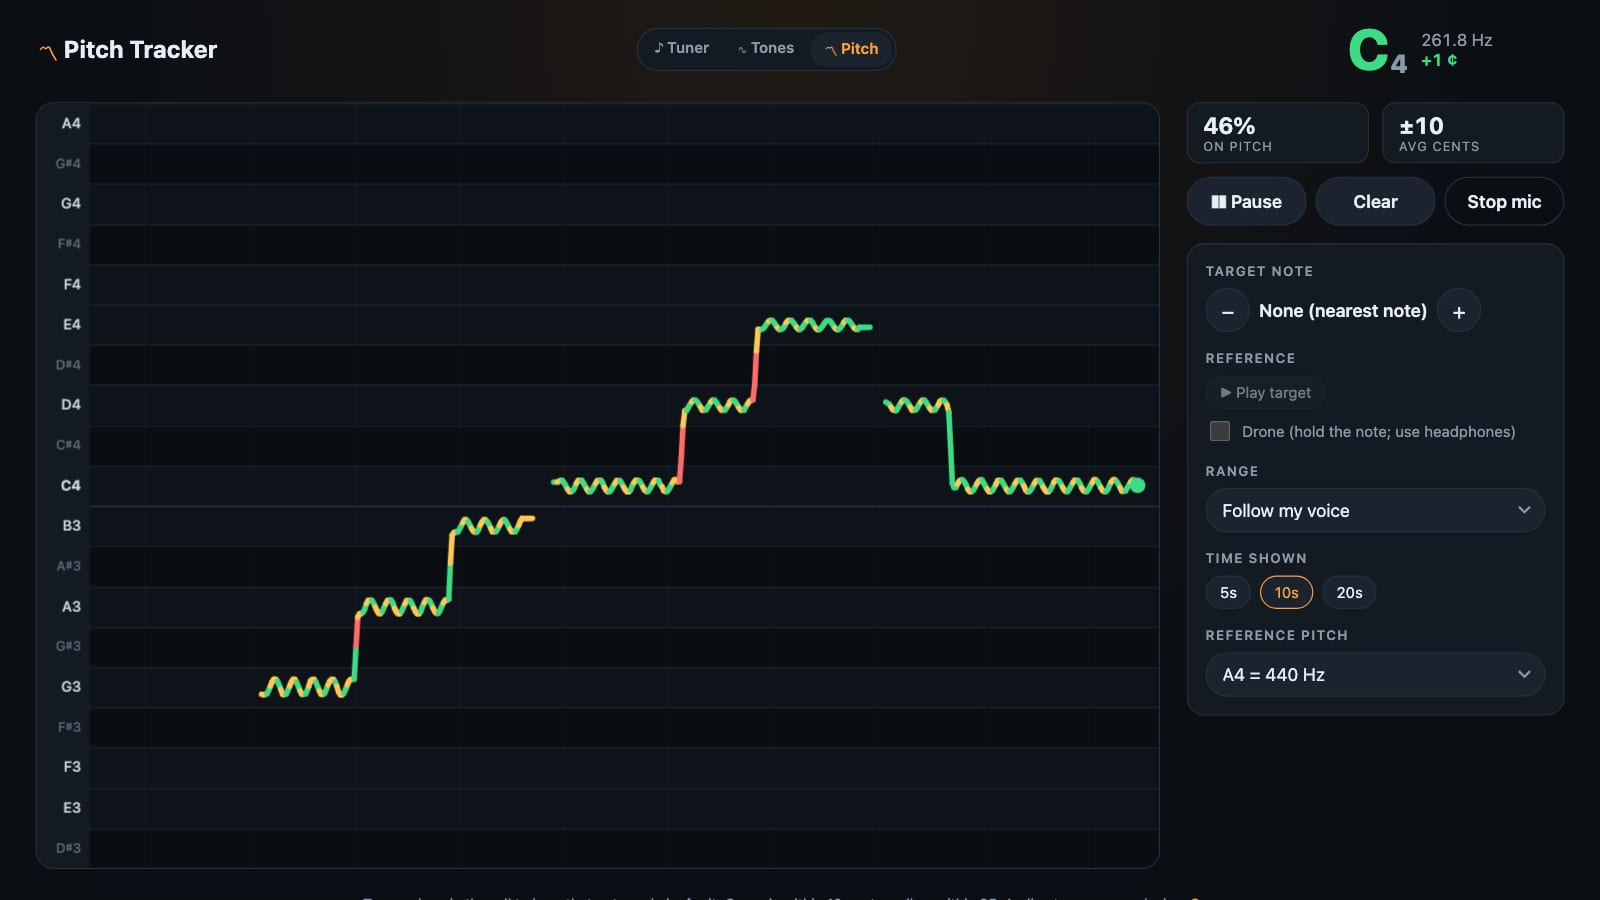
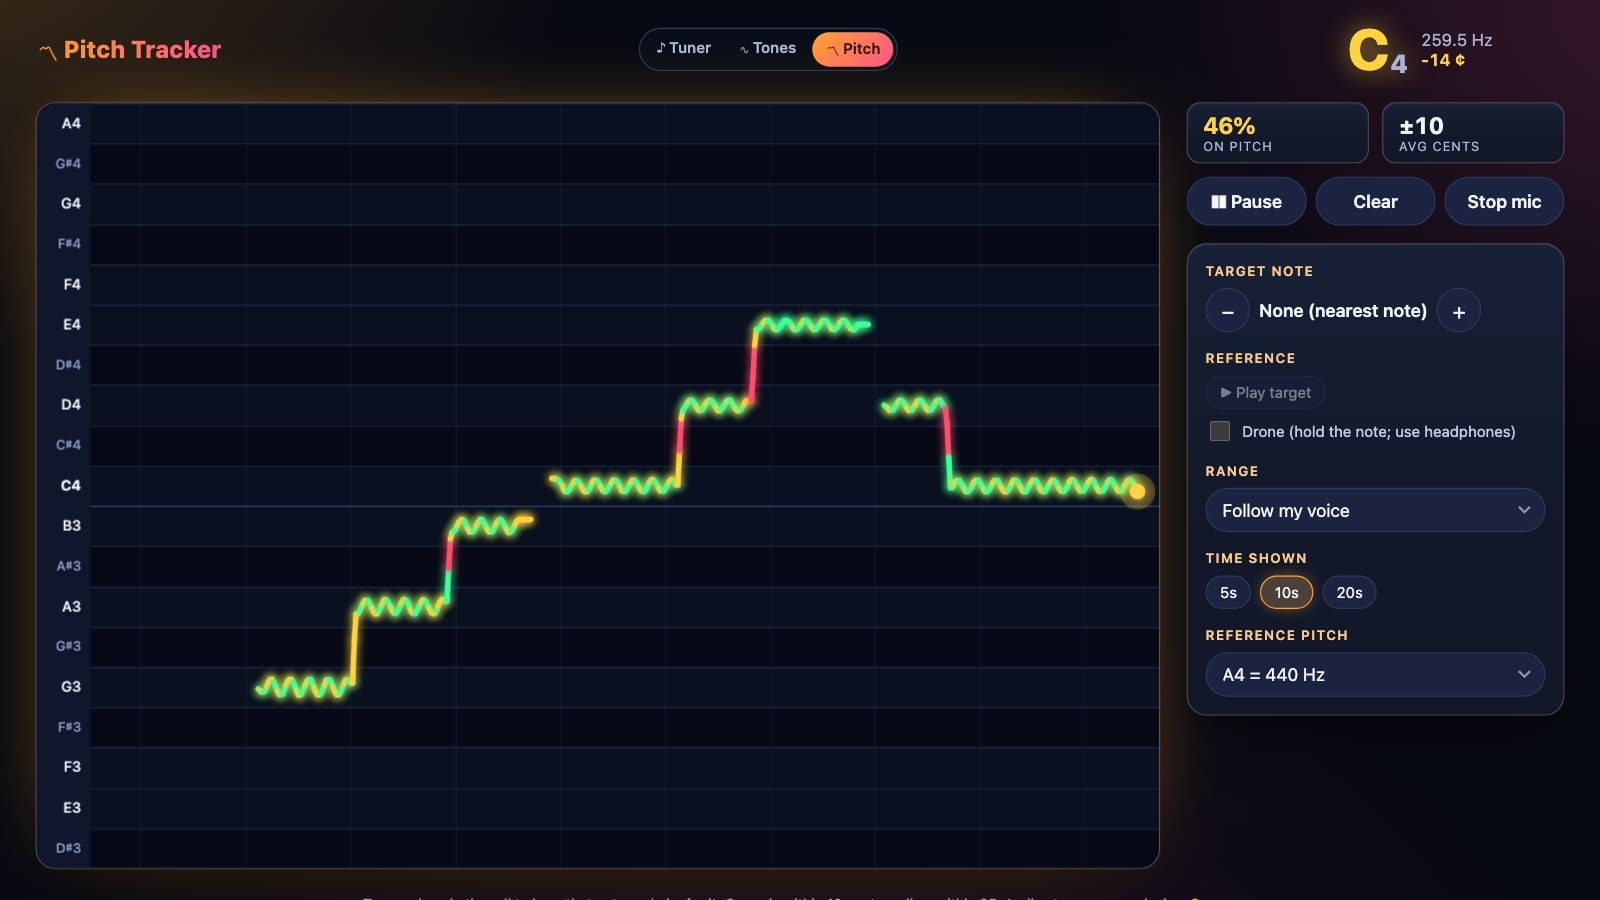
Refresh the music tools' thumbnails for their brighter theme
The three apps moved to a higher-contrast, more colourful theme, so
the cards' screenshots showed the old muted colours.

diff --git a/CHANGELOG.md b/CHANGELOG.md
@@ -16,7 +16,7 @@ The format is based on [Keep a Changelog](https://keepachangelog.com/en/1.1.0/).
 
 ### Changed
 
-- Instrument Tuner, Frequency Player, and Pitch Tracker show their new desktop layouts in their blog thumbnails and link previews, captured November 7, 2026.
+- Instrument Tuner, Frequency Player, and Pitch Tracker show their new desktop layouts and brighter colours in their blog thumbnails and link previews, captured November 7, 2026.
 - The LinkedIn and GitHub icons are now each company's own white logo files, unaltered, and they no longer glow on hover.
 - New logo: a rounded "rp" monogram now sits before the name in the header and is the browser-tab icon, and the name is set in the rounder Outfit typeface to match it. On page load the name types out letter by letter behind a mint block cursor, which then keeps blinking.
 - Links between pages now go straight to each post's final address (ending in `/`) instead of passing through a redirect first.
